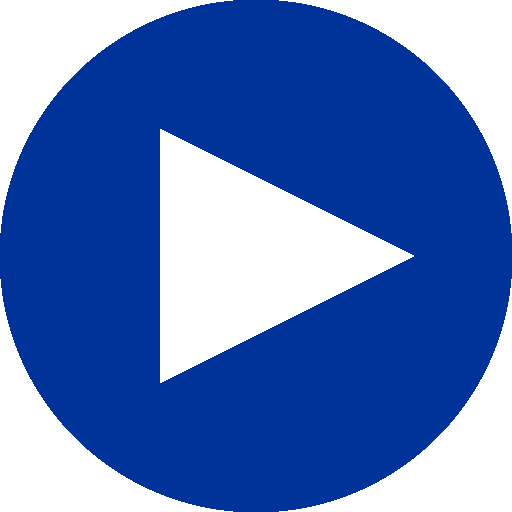
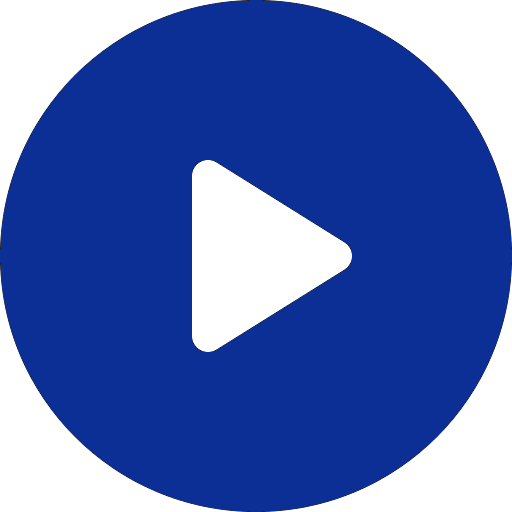
Audio Component

Changed region(s): [[0.3125, 0.25, 0.8125, 0.75]]

diff --git a/src/components/Message/index.js b/src/components/Message/index.js
@@ -1,13 +1,61 @@
-import React from 'react'
+import React, { useState, useRef, useEffect } from 'react'
 import PropTypes from 'prop-types'
 import classnames from 'classnames'
 
+import convertTime from 'utils/convertTime'
+
 import { Time, MessageStatus } from 'components'
-import wavesPng from 'assets/img/Waves.png' 
+import wavesPng from 'assets/img/waves.png' 
 import playPng from 'assets/img/play.png' 
+import pausePng from 'assets/img/pause.png' 
 import './Message.scss'
 
+const MessageAudio = ({audio}) => {
+    const [isPlay, setIsPlay] = useState(false)
+    const [progress, setProgress] = useState(0)
+    const [currentTime, setCurrentTime] = useState(0)
+    const audioRef = useRef(null)
+
+    const tooglePlay = () => {
+        isPlay ? audioRef.current.pause() : audioRef.current.play()
+    }
+
+    useEffect(() => {
+        audioRef.current.addEventListener('playing', () => setIsPlay(true))
+        audioRef.current.addEventListener('pause', () => setIsPlay(false))
+        audioRef.current.addEventListener('ended', () => {
+            setIsPlay(false)
+            setProgress(0)
+            setCurrentTime(0)
+        })
+        audioRef.current.addEventListener('timeupdate', () => {
+            const duration = (audioRef.current && audioRef.current.duration) || 0
+            setCurrentTime(audioRef.current.currentTime)
+            setProgress((audioRef.current.currentTime / duration) *   100)
+        })
+    }, [])
+
+    return (
+        <>
+        <div className='message--is-audio-progress' style={{width: progress + '%'}}></div>
+        <div className='message--is-audio'>
+            <audio ref={audioRef} src={audio} preload='auto' />
+            <div className='message--is-audio-button'  onClick={tooglePlay} > 
+            { isPlay 
+            ? <img className='message--is-audio-play' src={pausePng} alt={playPng} />
+            : <img className='message--is-audio-play' src={playPng} alt={playPng} />
+            }
+                
+            </div>
+            <img className='message--is-audio-wave' src={wavesPng} alt={wavesPng} />
+            <div className='message--is-audio-time'>{convertTime(currentTime)}</div>
+        </div>
+        </>
+    )
+}
+
 const Message = ({avatar, user, text, date, isMe, isReaded, attachments, isTyping, audio}) => {
+
     return (
         <div className={classnames('message', {
             'message--isme': isMe, 
@@ -16,21 +64,15 @@ const Message = ({avatar, user, text, date, isMe, isReaded, attachments, isTypin
             'message--is-audio': audio
             })}>
             <div className='message__content'>
-                <div className='message__avatar'>
+                <div className='message__avatar' >
                     <img src={avatar} alt={`Avatar ${user.fullname}`} />
                 </div>
                 <div className='message__info'>
-                    { (text || isTyping || audio) && <div className='message__bubble'>
+                    { (text || isTyping || audio) && 
+                        <div className='message__bubble'>
                         
                     { // If Audio
-                        audio && 
-                        <div className='message--is-audio'>
-                            <div className='message--is-audio-button'>
-                                <img className='message--is-audio-play' src={playPng} alt={playPng} />
-                            </div>
-                            <img className='message--is-audio-wave' src={wavesPng} alt={wavesPng} />
-                            <div className='message--is-audio-time'>0:19</div>
-                        </div>
+                        audio && <MessageAudio audio={audio}/>
                     } 
                     
                         { text && <p className='message__text'>{text}</p>}
@@ -41,7 +83,8 @@ const Message = ({avatar, user, text, date, isMe, isReaded, attachments, isTypin
                             <span />
                         </div>      
                         }
-                    </div>}
+                        </div>
+                    }
 
                     
 
@@ -83,7 +126,7 @@ Message.propTypes = {
     isReaded: PropTypes.bool,
     avatar: PropTypes.string,
     text: PropTypes.string,
-    date: PropTypes.string ,
+    // date: PropTypes.string ,
     user: PropTypes.object,
     attachments: PropTypes.array,
     isTyping: PropTypes.bool,

diff --git a/src/pages/Home/index.jsx b/src/pages/Home/index.jsx
@@ -10,11 +10,11 @@ const Home = () => {
             userId = {1}
             items= {[
                 {
-                    _id: 1,
+                    _id: '50b1bb8d98b9f0f1e0744d1bf91d9f52',
                      text: `Підтримує плагіни, розроблені за допомогою мови програмування Python`,
                     created_at: new Date('2019-12-12'),
                     user: {
-                        _id: 1,
+                        _id: '50b1bb8d98b9f0f1e0744d1bf91d9f52',
                         fullname: 'Maximilian Ostapovich',
                         avatar: null,
                         isOnline: false
@@ -25,7 +25,7 @@ const Home = () => {
                      text: `Підтримує плагіни, розроблені за допомогою мови програмування Python`,
                     created_at: new Date('2019-12-14'),
                     user: {
-                        _id: 1,
+                        _id: '50b1bb8d98b9f0f1e0744d1bf91d9f52',
                         fullname: 'Yirio Familiano',
                         avatar: 'http://pngimg.com/uploads/avatar/avatar_PNG47.png',
                         isOnline: true
@@ -36,7 +36,7 @@ const Home = () => {
                      text: `Підтримує плагіни, розроблені за допомогою мови програмування Python`,
                     created_at: new Date('2019-12-24'),
                     user: {
-                        _id: 1,
+                        _id: '50b1bb8d98b9f0f1e0744d1bf91d9f52',
                         fullname: 'Riolo Giornio',
                         avatar: 'http://carismartes.com.br/assets/global/images/avatars/avatar4_big@2x.png',
                         isOnline: true
@@ -46,23 +46,24 @@ const Home = () => {
 
             <Message 
                 avatar='https://image.flaticon.com/icons/png/512/186/premium/186313.png' 
-                date={new Date('2019-12-19')} 
+                date={new Date('2019-12-25')} 
                 isMe = {false} 
                 isReaded = {true}
                 audio='https://www.soundeffectsplus.com/uploads/prod_audio/39472249_footsteps-running-on-road-03.mp3'
             />
             
-            {/*  <Message 
-                avatar = 'https://cdn.icon-icons.com/icons2/1879/PNG/512/iconfinder-7-avatar-2754582_120519.png'
+            {/* <Message 
+                avatar = 'https://image.flaticon.com/icons/png/512/186/premium/186313.png'
                 attachments = {[
                     {
                         filename: 'image.jpg',
                         url: 'https://source.unsplash.com/user/erondu/100x100',
                     }
                 ]}
-            />
-            <Message 
-                avatar = 'https://cdn.icon-icons.com/icons2/1879/PNG/512/iconfinder-7-avatar-2754582_120519.png'
+            /> */}
+
+            {/* <Message 
+                avatar = 'https://image.flaticon.com/icons/png/512/186/premium/186313.png'
                 isTyping = {true} 
             /> */}
         </section>

diff --git a/src/components/DialogItem/index.js b/src/components/DialogItem/index.js
@@ -3,7 +3,7 @@ import classnames from 'classnames'
 import format from 'date-fns/format'
 import isToday from 'date-fns/isToday'
 
-import { MessageStatus } from 'components'
+import { MessageStatus, Avatar } from 'components'
 import './DialogItem.scss'
 
 const getMessageTime = created_at => {
@@ -15,43 +15,25 @@ const getMessageTime = created_at => {
     }
 }
 
-const getAvatar = (avatar, fullname) => {
-    if (avatar) {
-        return (
-            <img 
-                src={avatar}
-                alt={fullname + ' - Avatar' }
-            /> 
-        )
-    } else {
-        return (
-            <img 
-                src='https://cdn.pixabay.com/photo/2013/07/13/12/07/avatar-159236_960_720.png'
-                alt={fullname + ' - Avatar' }
-            /> 
-        )
-    }
-}
-
-const DialogItem = ({ message, unreaded, isMe }) => {
+const DialogItem = ({ user, unreaded, created_at, text, isMe }) => {
     return (
         <div className={classnames('dialogs__item', {
-            'dialogs__item--online': message.user.isOnline
+            'dialogs__item--online': user.isOnline
         })}>
             <div className='dialogs__item-avatar'>
-                { getAvatar(message.user.avatar, message.user.fullname) }
+                <Avatar user={user}/> 
             </div>
             <div className='dialogs__item-info'>
                  <div className='dialogs__item-info-top'>
-                    <b>{ message.user.fullname }</b>
+                    <b>{ user.fullname }</b>
                     <span>
-                        { getMessageTime(message.created_at) } 
+                        { getMessageTime(created_at) } 
                         {/* <Time date={message.created_at} /> */}
                     </span>
                  </div>
                  <div className='dialogs__item-info-bottom'>
                     <p>
-                        { message.text }
+                        { text }
                     </p>
                     {isMe && <MessageStatus isMe={true} isReaded={true} />}
                     { unreaded > 0 && <div className='dialogs__item-info-bottom-count'>

diff --git a/src/components/Message/Message.scss b/src/components/Message/Message.scss
@@ -27,6 +27,8 @@
         border-radius: 12px 12px 12px 0;
         padding: 15px;
         margin-bottom: 8px;
+        position: relative;
+        overflow: hidden;
     }
 
     &__text {
@@ -150,20 +152,45 @@
         display: flex;
         align-items: center;
         justify-content: space-between;
+        audio {
+            display: none;
+        }
+
+        &-progress {
+            position: absolute;
+            left: 0;
+            right: 0;
+            top: 0;
+            bottom: 0;
+            background-color: #789be9;
+            opacity: .9;
+            width: 0%;
+            transition: width .3s ease-out;
+        }
+
         &-button {
-            width: 40px;
-            height: 40px;
+            width: 35px;
+            height: 35px;
             border-radius: 50%;
             background-color: inherit;
+            z-index: 15;
+            &:hover {
+                opacity: .8;
+                cursor: pointer;
+            }
         }
         &-wave {
-            height: 50px;
-            width: 100px;
+            height: 35px;
+            width: 140px;
+            z-index: 15;
         }
         &-time {
             color: #fff;
             font-weight: bold;
+            font-size: 12px;
             letter-spacing: 1px;
+            opacity: .6;
+            z-index: 15;
         }
         &-play {
             width: 100%;

diff --git a/src/components/Avatar/index.js b/src/components/Avatar/index.js
@@ -1,0 +1,35 @@
+import React from 'react'
+import PropTypes from 'prop-types'
+import generateAvatar from 'utils/generateAvatar'
+
+import './Avatar.scss'
+
+
+const Avatar = ({ user }) => {
+    if (user.avatar) {
+        return (
+            <img 
+                className='avatar'
+                src={user.avatar}
+                alt={`Avatar ${user.fullname}`}
+            /> 
+        )
+    } else {
+        const {color, colorLighten} = generateAvatar(user._id)
+        const firstLetter = user.fullname[0]
+        return (
+                <div 
+                    className='avatar avatar--empty'
+                    style={{ background: `linear-gradient(135deg, ${color} 0%, ${colorLighten} 96%)` }}
+                >
+                    {firstLetter.toUpperCase()}
+                </div>
+            )
+    }
+}
+
+Avatar.PropTypes = {
+    className: PropTypes.string
+}
+
+export default Avatar

diff --git a/src/components/Dialogs/index.js b/src/components/Dialogs/index.js
@@ -6,10 +6,12 @@ import './Dialogs.scss'
 
 const Dialogs = ({ items, userId }) =>  (
     <div className='dialogs'>
-        { orderBy(items, ['created_at'], ['desc']).map(item => (
+        { orderBy(items, ['created_at'], ['desc']).map((item, index) => (
             <DialogItem 
-                key={item._id}
-                message={item}
+                key={item._id+index}
+                user={item.user}
+                created_at={item.created_at}
+                text={item.text}
                 isMe={item.user._id === userId } 
             />
         )) }

diff --git a/src/utils/generateAvatar.js b/src/utils/generateAvatar.js
@@ -1,0 +1,14 @@
+import tinycolor from 'tinycolor2'
+
+const getCorrectIndex = number => number > 255 ? 255 : number < 0 ? 0 : number
+
+export default hash => {
+    const [r, g, b] = hash
+            .substr(0, 3)
+            .split('')
+            .map(number => getCorrectIndex(number.charCodeAt(0)))
+    return {
+        color: tinycolor({r, g, b}).toHexString(), 
+        colorLighten: tinycolor({r, g, b}).lighten(40 ).toHexString()
+    }
+}

diff --git a/src/components/index.js b/src/components/index.js
@@ -5,3 +5,4 @@ export { default as DialogItem } from './DialogItem'
 export { default as Time } from './Time'
 export { default as MessageStatus } from './MessageStatus'
 export { default as Dialogs } from './Dialogs'
+export { default as Avatar } from './Avatar'

diff --git a/src/components/Avatar/Avatar.scss b/src/components/Avatar/Avatar.scss
@@ -1,0 +1,13 @@
+.avatar {
+    border-radius: 50%;
+    width: 40px;
+    height: 40px;
+    
+    &--empty {
+        color: #fff;
+        text-align: center;
+        line-height: 40px;
+        font-weight: 600;
+        font-size: 17px;
+    }
+}

diff --git a/src/utils/convertTime.js b/src/utils/convertTime.js
@@ -1,0 +1,5 @@
+export default number => {
+    const min = Math.floor(number / 60)
+    const sec = (number % 60).toFixed()
+    return `${min < 10 ? '0' : ''}${min}:${sec < 10 ? '0' : ''}${sec}`
+}

diff --git a/src/components/Time/index.js b/src/components/Time/index.js
@@ -11,7 +11,7 @@ const Time = ({ date }) => (
     
 
 Time.propTypes = {
-    date: PropTypes.string
+    // date: PropTypes.string
 }
 
 export default Time
